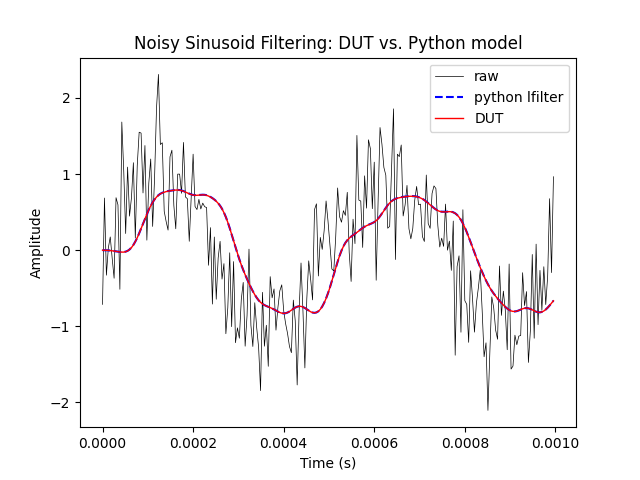
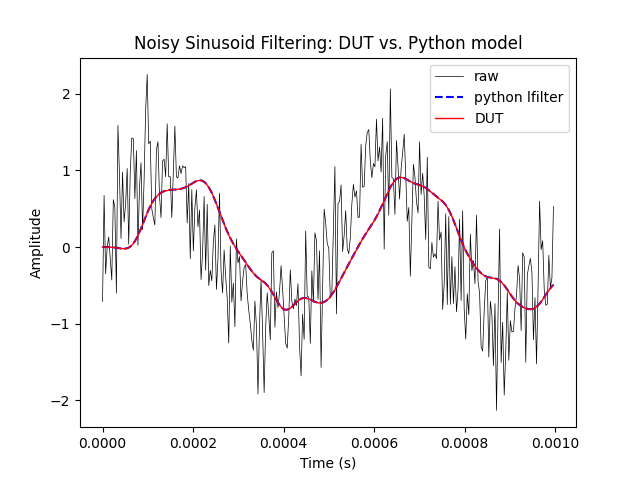
docs cleanup for new spec, regen plots [skip ci]

diff --git a/test/fir_tb.py b/test/fir_tb.py
@@ -8,10 +8,10 @@ import math
 import os
 
 # clock period (ns)
-clock_period = 25 # 25mhz
+clock_period = 25 # 40 MHz
 # spi clock of 1-4mhz requires 2 NOP frames
-# spi clock 5mhz < (not sure bounds) requires 4+ nop frames
-spi_clock_period = 250 # ~4mhz
+# spi clock 5 MHz < (not sure bounds) requires 4+ nop frames
+spi_clock_period = 200 # ~5 MHz
 spi_frame_len = 16
 nop_frames = 2
 

diff --git a/docs/CHANGELOG.md b/docs/CHANGELOG.md
@@ -1,37 +1,77 @@
 # Changelog
 
-## Uncommitted (2026-07-16)
+## Uncommitted
 
-### Fixes
-- **Impulse response plot**: Moved from `test_negative_impulse_response` (negative impulse,
-  output ≈ -coeffs) into the positive impulse test, fixing spurious `-2*coeffs` errors
-  in the plot (up to -468 LSB at mid taps)
-- **Step response assertion**: Replaced `abs(out[-1] - expected) <= 30` with per-sample
-  `abs(out[i] - y_lfilter_int[i]) <= 30`, catching the overflow at sample 48
-- **cs_n assert mid frame assertion**: Fixed `abs(abs())` → signed comparison
+- `README.md`: Added sampling rate line (~294 kSps @ SCLK = 5 MHz)
+- `docs/info.md`: Added CS_N high-time section; updated sampling rate calculation
+- `docs/CHANGELOG.md`, `TODO.md`: Updated for current repo state
+
+## 2026-07-19 — f6b01fb
+
+- **Tap count 28→36**: `src/tt_um_tpcannon7_fir.v` `localparam Taps = 36`,
+  `src/fir_filter.v` default `parameter Taps = 36`, `test/fir_tb.py` `taps = 36`
+- **System clock 25→40 MHz**: `src/config.json` `CLOCK_PERIOD` 40→25 ns,
+  `info.yaml` `clock_hz` 25M→40M
+- **Docs**: `README.md`, `info.yaml`, `docs/info.md` — all tap count and clock
+  references updated; added sampling rate (~294 kSps, ~147 KHz Nyquist) and
+  CS_N high-time section to `docs/info.md`
+- **Plots**: All 4 response plots regenerated (freq, impulse, step, noisy sine)
+- **Changelog**: Recorded 36-tap / 40-MHz transition
+
+## 2026-07-16..2026-07-19 — Overflow fix, test refactor, SPI cleanup, MAC pipeline
 
 ### Hardware
-- **fir_filter.v mac_idx counter**: Gated increment with `!mac_cnt_full` to prevent
-  out-of-bounds read of `samples[28]`/`coeff[28]` (X in waveform)
 - **fir_filter.v output saturation**: Replaced raw bit-slice `acc[14:3]` with guard-bit
   overflow detection/clamping to ±2047. Previously the step response wrapped to -2048
-  during transient when accumulator exceeded 12-bit signed range
+  during transient when accumulator exceeded 12-bit signed range (`03faaf1`)
+- **fir_filter.v mac_idx counter**: Gated increment with `!mac_cnt_full` to prevent
+  out-of-bounds read of `samples[28]`/`coeff[28]` (X in waveform) (`2ff79c3`)
+- **MAC pipeline**: Added 2-cycle/tap pipelined MAC (load operands on cycle N,
+  accumulate on cycle N+1), decoupling tap-select mux + multiplier from accumulator
+  adder to close timing (`2ff79c3`)
+- **MODE → FIR_MODE**: Renamed mode pin for clarity across fir_filter, control, spi
+  (`53661a4`)
+- **Config sweeps**: Density 70% → 72% → 65%, hold margins 0.1→0.05, tap count
+  28→26→28 across multiple commits (`25945bc`, `20944c6`, `083c4d0`, `3f246a9`)
+
+### Testbench
+- **New overflow test** (`test_overflow`): monotonicity + final saturation check
+  (`a51d6c4`)
+- **SPIinterface refactor**: Broke monolithic transmit into `_transmit`, `transfer`,
+  `transfer_bad` (fault injection) methods (`53661a4`)
+- **Bad-transaction tests**: `transfer_bad` injects random CS_N high mid-frame to
+  verify SPI fault recovery (`53661a4`)
+- **Coefficient reload test**: Load coeffs, verify impulse, reload different coeffs,
+  verify (`a51d6c4`)
+- **Seeded RNG**: `FIR_TB_SEED` env var for reproducible test runs (`53661a4`)
+- **Mid-sample coefficient reload**: Manual SPI frame construction for exploratory
+  test (`a51d6c4`)
+- Plot-only tests (`test_frequency_response`, `test_load_coeffs_mid_sample_drive`)
+  with try/except around `plt.savefig()` (`03faaf1`, `a51d6c4`)
+- Deleted dead test files `test/spi_tb.py` and `test/test.py` (`03faaf1`)
+- Added `plots` target to `test/Makefile` (`03faaf1`)
+- All 10 tests pass, all 4 plots regenerated across multiple commits
+
+### SPI
+- **MISO idle-low**: MISO actively driven LOW during idle instead of tri-stated
+  (`53661a4`)
+- **negedge sensitivity**: SPI module shifts `tx_buf` on `posedge clk`, fixing
+  edge-alignment issues (`53661a4`)
+- **cs_n mid-frame fault**: SPI resets on premature CS_N de-assertion, discarding
+  partial frame (`53661a4`)
 
 ### Code quality
-- Deleted dead test files `test/spi_tb.py`, `test/test.py`
-- Removed stale Baugh-Wooley comments from `src/trunc_mult.v`
-- Added try/except around `plt.savefig()` in all plot tests
-
-### Tests
-- Refactored `SPIinterface` into `_transmit`, `transfer`, `transfer_bad` methods
-- Added `plots` target to `test/Makefile` (outputs to `docs/`)
-- All 10 tests pass, plots regenerated
+- Removed stale Baugh-Wooley comments from `src/trunc_mult.v` (`03faaf1`)
+- Cleaned up synthesis warnings across control, fir_filter, spi (`53661a4`)
+- Deleted `test/tb.gtkw` (stale absolute paths) (`53661a4`)
 
 ### Documentation
-- `docs/info.md`: SPI timing diagram, RP2040 C bringup snippet, NOP frame explanation,
-  quantization error note, coefficient reverse-loading order, Frequency Response section,
-  Noisy Sine section
-- `README.md`: Added "Results" section with plot thumbnails/captions
+- `docs/info.md`: Complete rewrite — SPI timing diagram, RP2040 C bringup snippet,
+  NOP frame explanation, quantization error note, coefficient reverse-loading order,
+  Frequency Response section, Noisy Sine section (`03faaf1`, `53661a4`, `a51d6c4`)
+- `README.md`: Added "Results" section with plot thumbnails/captions (`03faaf1`)
+- `CHANGELOG.md`: Brought up to date with full project history (`03faaf1`)
+- Spelling and mode naming consistency pass (`5b897de`)
 
 ---
 

diff --git a/docs/info.md b/docs/info.md
@@ -27,16 +27,18 @@ You can also include images in this folder and reference them in the markdown. E
 ### Coefficient Reloading
  - Coefficients are runtime programmable through the use of the FIR_MODE pin with some additional notes
    - On fresh startup of filter, best practice is to load your coefficients for all taps and then continuously stream samples
-   - If a coefficient reload is desired to change filter behavior during runtime, the recommended setup is to flush the entire sample line with 0x0000/NOPs equal to tap count (28 taps) to not corrupt the filter math with stale samples and then load new coefficients
+   - If a coefficient reload is desired to change filter behavior during runtime, the recommended setup is to flush the entire sample line with 0x0000/NOPs equal to tap count (36 taps) to not corrupt the filter math with stale samples and then load new coefficients
    - Outputs during this NOP/reloading phase should be ignored; they are stale calculations from the previous filter settings
 
 ## SPI Overview
 
-  - System clock is 25 MHz, recommended SCLK $\leq$ ~3-4MHz
+  - System clock is 40 MHz, recommended SCLK $\leq$ ~4-5 MHz
   - 16 bit frames; MSB leading, remaining lower bits padded with 0's
-    - With 16 bit frames 
+    - With 16 bit frames @ SCLK = 5 MHz, the sampling rate is about:
+        - Total SPI frame time = 200ns per bit * 16 bits + cs_n high between frames = 3400ns -> 294 kSps / 2 (Nyquist) = 147 KHz maxiumum theoretical recoverable signal frequency; real-world maximum will land slightly below
   - SPI Mode 0 only
   - MISO is driven LOW during idle, not tri-stated; do not share MISO line with other SPI slaves unless externally isolated or muxed
+  - CS_N high time between frames must be one cycle of SCLK, (For 5 MHz, CS_N high between frames should be 200ns)
   - Set `ui_in[0]` pin (FIR_MODE) at the beginning of each SPI transaction to your desired transmission type
     - FIR_MODE = 1 (SAMPLE)
     - FIR_MODE = 0 (COEFFICIENT)
@@ -132,7 +134,7 @@ The DUT output (red) overlaid on the ideal fixed-point coefficients (blue).
 
 ![Step Response](step_response.png)
 
-The DUT step response (red) vs Python lfilter (blue). The FIR fills in over 28 taps and then converges to the expected steady state step response.
+The DUT step response (red) vs Python lfilter (blue). The FIR fills in over 36 taps and then converges to the expected steady state step response.
 
 ## Frequency Response
 

diff --git a/README.md b/README.md
@@ -2,10 +2,11 @@
 
 ## D-FIR: A Tiny Tapeout FIR Filter
 
-  - 12 bit samples/coefficients, 28 Taps
+  - 12 bit samples/coefficients, 36 Taps
   - Runtime coefficient reprogramming
   - SPI Interface (Mode 0)
-  - Internal clock @ 25 MHz
+  - Internal clock @ 40 MHz
+    - ~294 kSps @ SCLK = 5 MHz
   - SKY130 PDK
   - **See [info.md](docs/info.md) for more information**
     - [General Operation](docs/info.md#general-operation)
